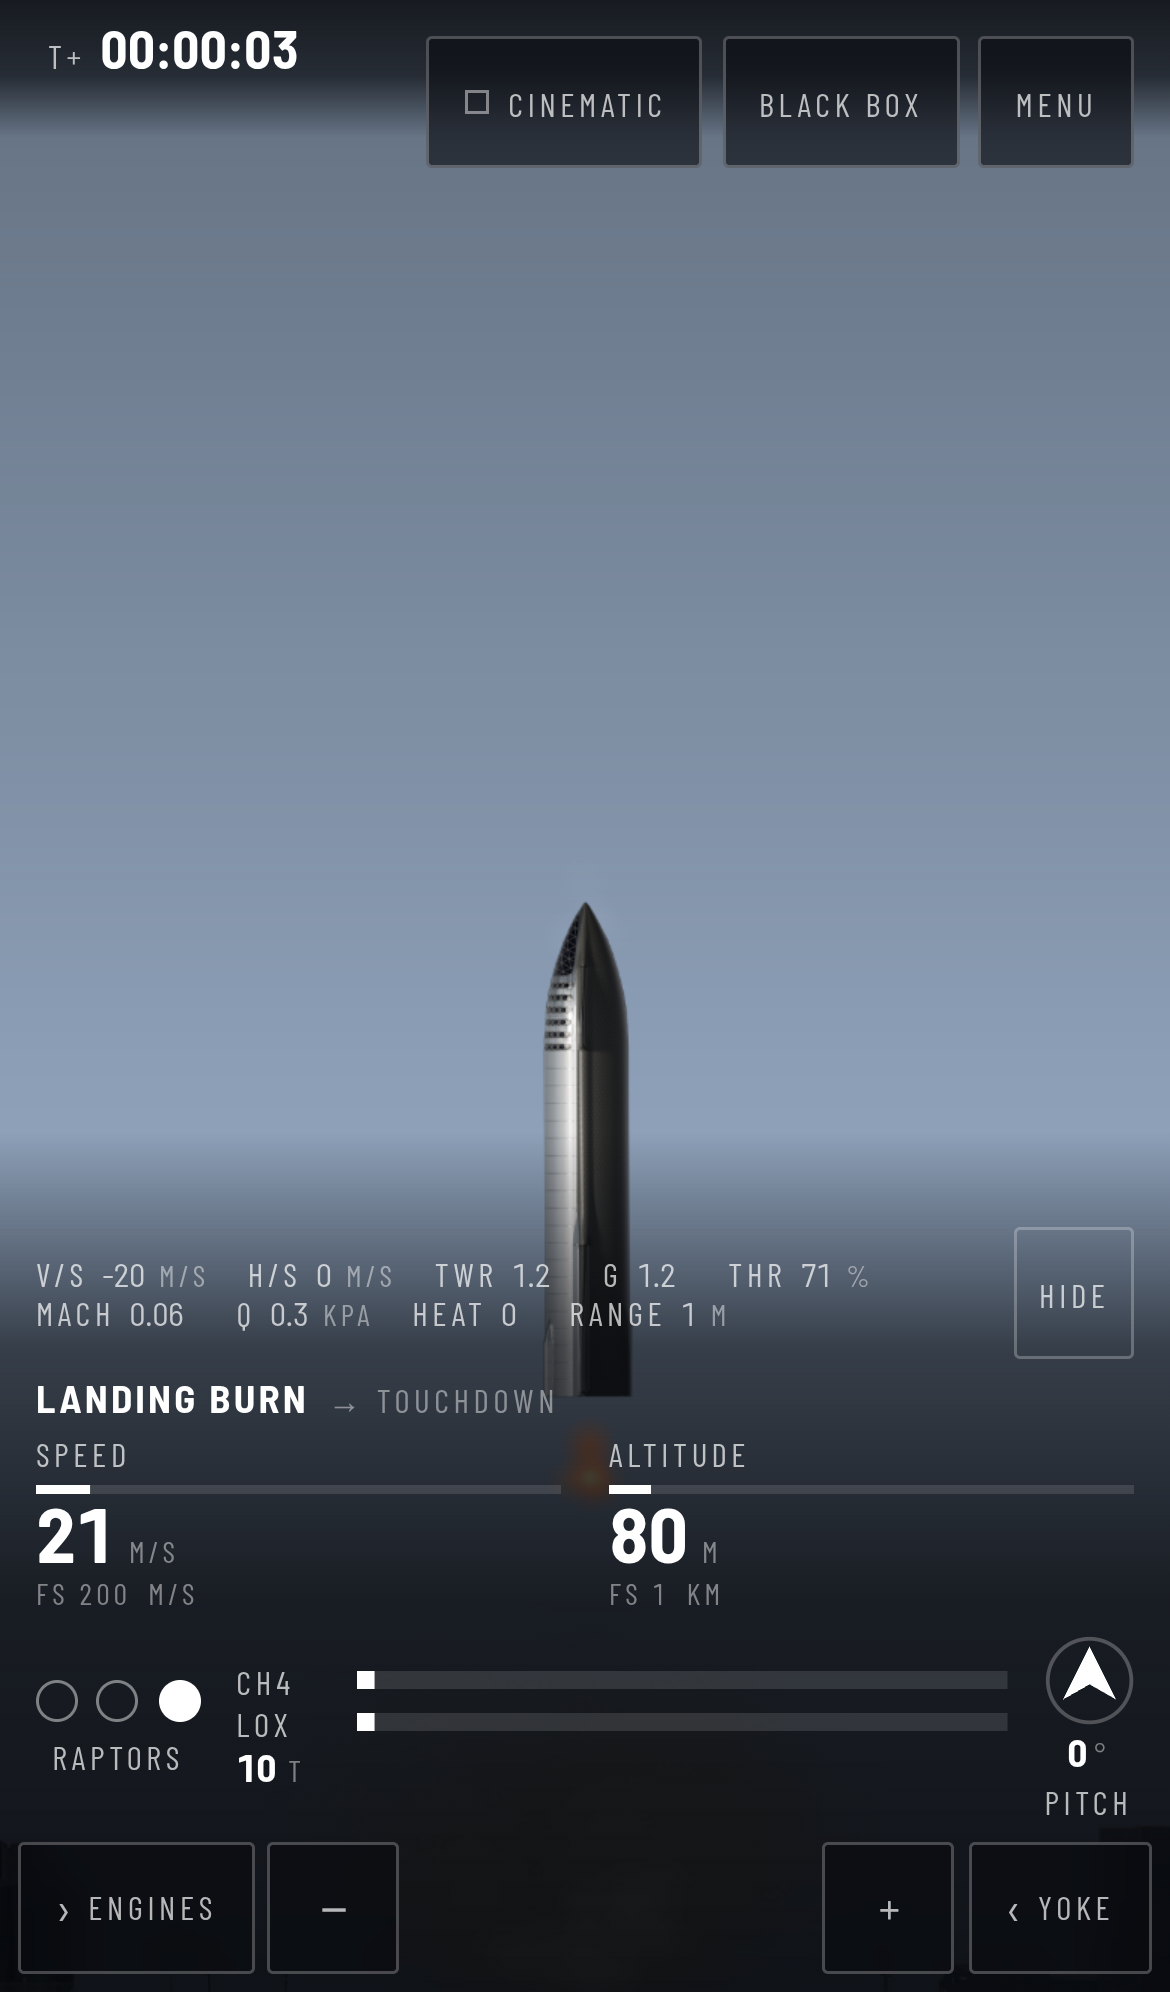
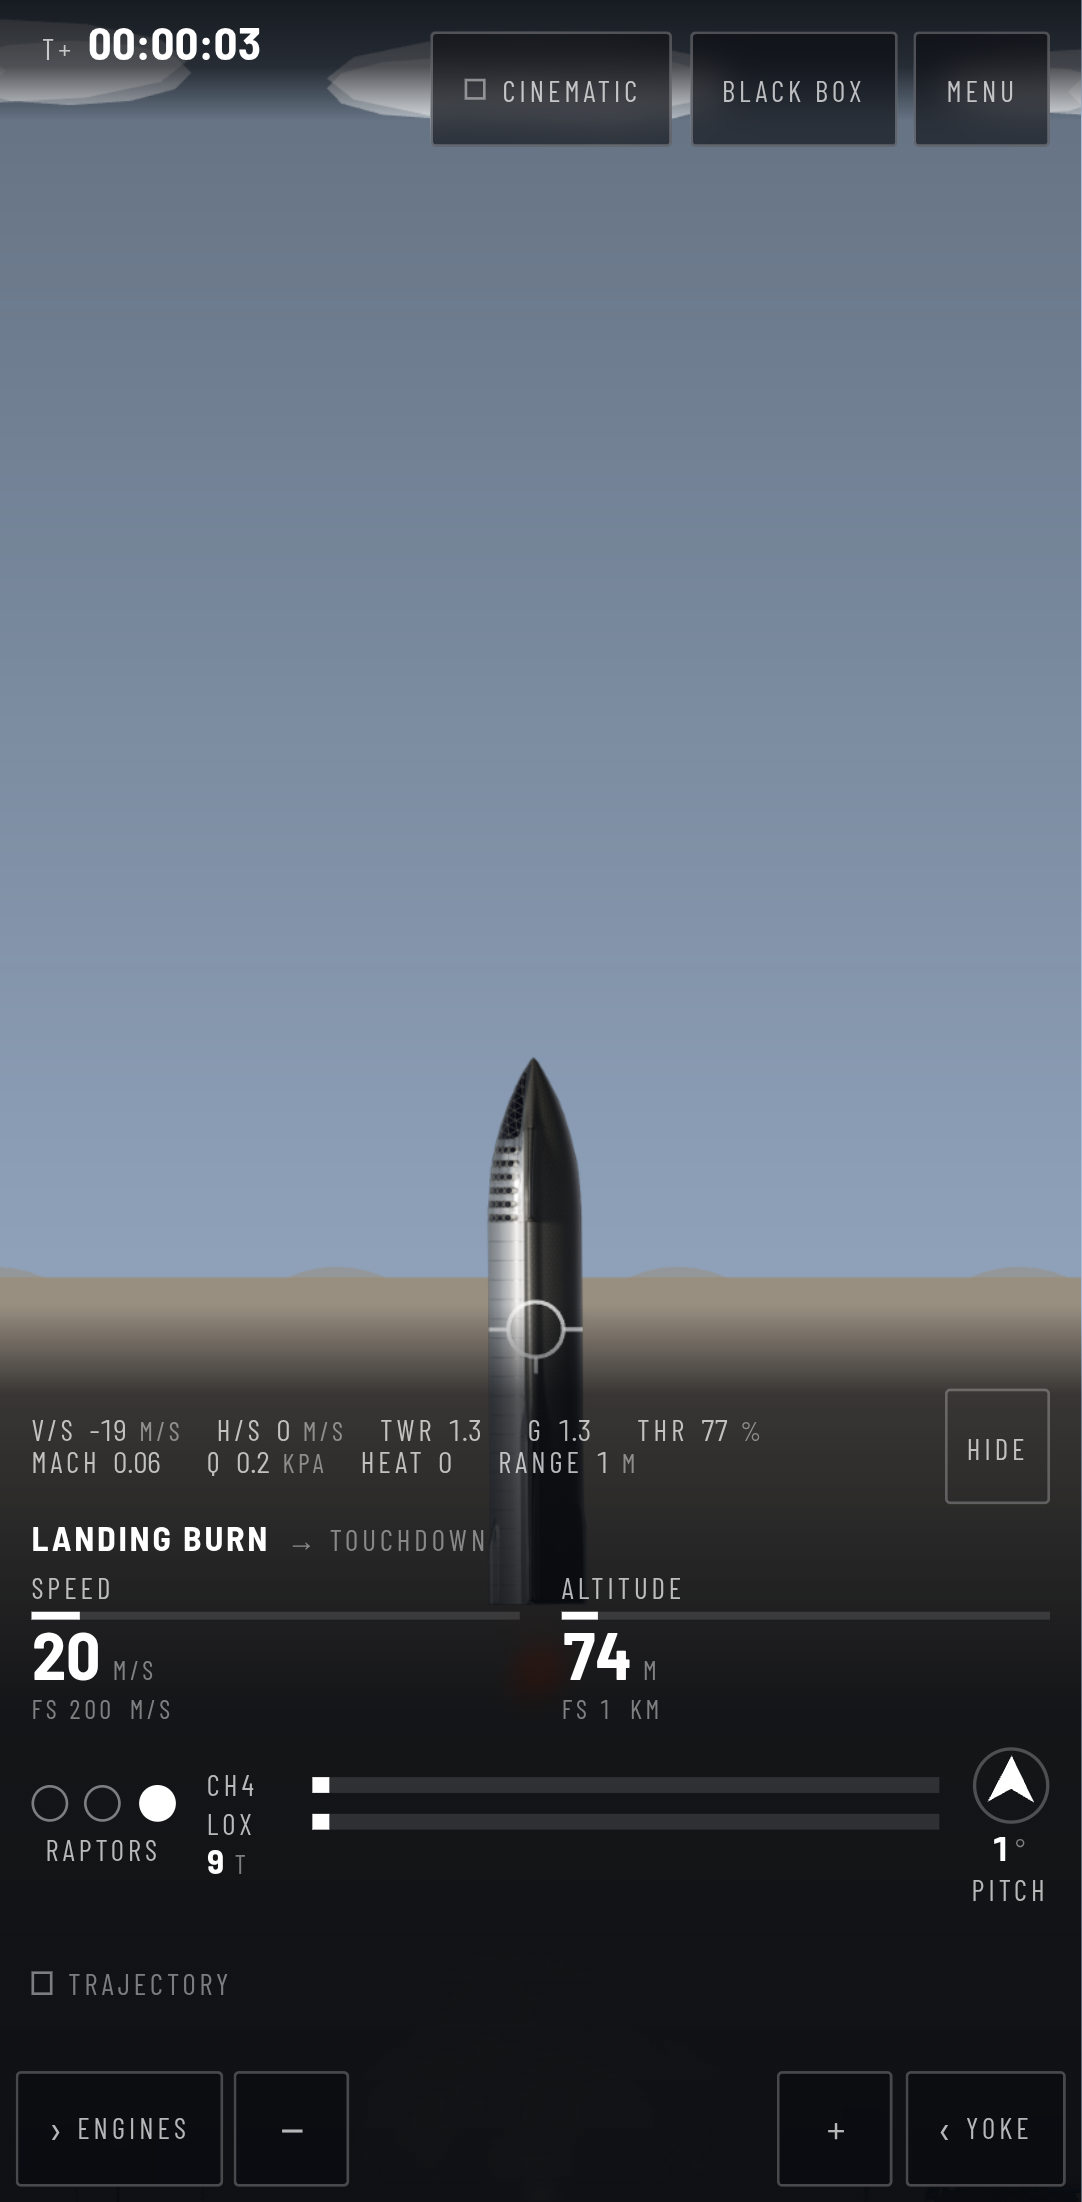
M7.7: perf, budget, mobile, ship
The gate for the whole milestone, with numbers rather than the word "green".

  lint, 1347 unit tests, build           all exit 0
  playwright                             266 passed, all five projects
    chromium 94 · pixel-portrait 45 · pixel-landscape 41
    iphone-portrait 45 · iphone-landscape 41
  first-load JS                          193.9 kB of 250 kB gzip
  fonts                                  32.7 kB of 80 kB raw
  service worker                         35 assets precached
  git diff v2/src/core vs M7 start       empty
  seven golden digests                   byte-identical to M2.14

THE BINDER BENCHMARK NOW INCLUDES THE MAP, which is the whole point of it. That
test measures the entire frame rather than one binder precisely because a
per-binder benchmark keeps saying green while the real cost grows — and M7.1
added a canvas repaint to the same tick. Leaving it out would have reintroduced
the blind spot one milestone after it was closed. It is offered at the rate
App.svelte offers it, so what is measured is the real amortised cost:

    whole-HUD frame 0.0076 ms of a 2 ms budget,
    with the map redrawing 577 times over a 1500-point trail

Zero-allocation coverage extended to both new callers. The map has its own
heap-growth test; the streaks join the pooled-effects loop, because they are the
first effect with a `stretch` and therefore the first to touch
`sprite.rotation` — a recycled sprite that kept an angle would hand it to
[…]

diff --git a/v2/tests/hud/binder.test.ts b/v2/tests/hud/binder.test.ts
@@ -33,6 +33,7 @@ import { READOUTS } from '$hud/readouts';
 import { METRICS } from '$hud/metrics';
 import { INDICATORS } from '$hud/indicators';
 import { createTimeline, trackFor } from '$hud/timeline';
+import { createMapRenderer, type MapContext } from '$hud/trajectory-draw';
 import { createTimelineBinder } from '$hud/timeline-binder';
 import { createInitialState, type SimState } from '$core/state';
 import { createScenarioState, getScenario, PRESETS } from '$core/scenarios';
@@ -277,12 +278,36 @@ describe('the 2 ms budget', () => {
     let state: SimState = createScenarioState(getScenario('reentry')!);
     cmd.toggleAutoLand(state);
 
+    /*
+      M7.7: the map is IN this benchmark, not beside it.
+
+      The whole reason this test measures the frame rather than one binder is
+      the note above — a per-binder benchmark keeps saying green while the real
+      cost grows. M7.1 added a canvas repaint to the same tick, and leaving it
+      out would have reintroduced exactly that blind spot one milestone after
+      it was closed.
+
+      It is offered at 10 Hz through `update`, which is what App.svelte does, so
+      what is measured is the real amortised cost: nine frames of one throttle
+      check and a tenth that repaints.
+    */
+    const mapContext = recordingMapContext(280, 104);
+    const trail = { downRange: [] as number[], altitude: [] as number[] };
+    const map = createMapRenderer({ context: mapContext, trail });
+
     const tick = (s: SimState) => {
       timeline.observe(s);
       text.binder.update(s);
       metrics.update(s);
       timelineBinder.update();
       indicators.update(s);
+      map.update(s, 1 / 120);
+      // The trail grows as the recorder feeds it, so the decimation is
+      // measured over a real length rather than an empty array.
+      if (trail.downRange.length < 20_000 && s.world.updatedFrameCount % 5 === 0) {
+        trail.downRange.push(s.kinematics.downRangeDistance);
+        trail.altitude.push(s.kinematics.altitude);
+      }
     };
 
     for (let i = 0; i < 500; i++) {
@@ -304,7 +329,13 @@ describe('the 2 ms budget', () => {
     samples.sort((a, b) => a - b);
     const perFrame = samples[Math.floor(samples.length / 2)]!;
 
-    expect(perFrame, `whole-HUD frame cost ${perFrame.toFixed(4)} ms`).toBeLessThan(2);
+    const report =
+      `whole-HUD frame cost ${perFrame.toFixed(4)} ms of a 2 ms budget, ` +
+      `map redrew ${map.drawCount} times over ${trail.downRange.length} trail points`;
+    console.log(report);
+    expect(perFrame, report).toBeLessThan(2);
+    // And the map was genuinely in the loop, or this measured the old frame.
+    expect(map.drawCount).toBeGreaterThan(10);
   });
 });
 
@@ -330,3 +361,31 @@ describe('the source itself', () => {
     expect(offenders).toEqual([]);
   });
 });
+
+/**
+ * A recording 2D context for the benchmark above.
+ *
+ * Deliberately does the cheapest possible thing per call: the point of putting
+ * the map in the frame benchmark is to measure the MAP's arithmetic — the
+ * decimation, the extent, the projection of three hundred points — not
+ * Chromium's rasteriser, which is not running in Node anyway.
+ */
+function recordingMapContext(width: number, height: number): MapContext {
+  return {
+    canvas: { width, height },
+    strokeStyle: '',
+    fillStyle: '',
+    lineWidth: 0,
+    font: '',
+    globalAlpha: 1,
+    clearRect: () => {},
+    beginPath: () => {},
+    moveTo: () => {},
+    lineTo: () => {},
+    arc: () => {},
+    stroke: () => {},
+    fill: () => {},
+    fillText: () => {},
+    setLineDash: () => {},
+  };
+}

diff --git a/v2/tests/view/perf.test.ts b/v2/tests/view/perf.test.ts
@@ -114,7 +114,7 @@ describe('the per-frame path does not grow', () => {
     }
   });
 
-  it('the M6.7 effects do not grow it either', () => {
+  it('the M6.7 and M7.5 effects do not grow it either', () => {
     /*
       The same invariant, run over what M6.7 added: a plume whose spread and
       size vary per frame, and a plasma trail. Both are new CALL SHAPES rather
@@ -143,6 +143,23 @@ describe('the per-frame path does not grow', () => {
         plumeSpreadFactor(pressure),
       );
       particles.emit('plasmaTrail', 0, 0, Math.PI, 0.8, DT, 1);
+      /*
+        M7.5's streaks, in the same loop and for the same reason. They are the
+        first effect with a `stretch`, which means the first that touches
+        `sprite.rotation` — and a recycled sprite that kept a rotation would
+        hand it to whatever plume particle claimed the slot next. Emitted at a
+        varying intensity so the rate-debt path is exercised rather than the
+        steady state.
+      */
+      particles.emit(
+        'velocityStreak',
+        0,
+        0,
+        0,
+        0.5 + 0.5 * Math.sin(frame * 0.013),
+        DT,
+        1,
+      );
       particles.update(DT);
       expect(particles.container.children.length).toBe(children);
     }

diff --git a/docs/ROADMAP-TASKS.md b/docs/ROADMAP-TASKS.md
@@ -363,7 +363,7 @@ numbers — plan § 5.*
   A deck at a few kilometres, seeded so it returns identically every run, thinning above it. Like
   M7.4, built against the settled FOV. Accept: deterministic across runs; per-frame allocation
   unchanged; correct above and below.
-- [ ] **M7.7 Perf, budget, mobile, ship** — binder re-benchmark under 2 ms with the map redraw
+- [x] **M7.7 Perf, budget, mobile, ship** — binder re-benchmark under 2 ms with the map redraw
   included; bundle report in the commit (JS <= 250 kB gzip, fonts <= 80 kB); the map's phone story
   proved by the mobile projects (it starts collapsed there — the lower third has no spare room);
   offline precache still complete; screenshots refreshed and the README updated. Accept: full gate
@@ -1689,3 +1689,25 @@ out is the point of the whole milestone.*
   altitude rather than against a number copied out of it, so moving the horizon later cannot silently
   put the sky underneath it. Thins to nothing by 30 km — above the troposphere there is no weather,
   and by then M7.4 is already drawing the earth.
+- 2026-08-25 · M7.7 · **Depth and Speed ships.** The gate, with the numbers rather than the word
+  "green": lint, 1347 unit tests and build all exit 0; **playwright 266 passed across all five
+  projects** (chromium 94, pixel-portrait 45, pixel-landscape 41, iphone-portrait 45,
+  iphone-landscape 41); first-load JS **193.9 kB of 250**, fonts 32.7 kB of 80, service worker
+  precaching 35 assets; `git diff v2/src/core` against the M7 start commit prints nothing and all
+  seven golden digests are byte-identical to their M2.14 values.
+  **The binder benchmark now includes the map**, which is the point of it: that test measures the
+  whole frame rather than one binder precisely because a per-binder benchmark keeps saying green
+  while the real cost grows, and M7.1 added a canvas repaint to the same tick. Leaving it out would
+  have reintroduced the blind spot one milestone after it was closed. Measured **0.0076 ms of a 2 ms
+  budget**, with the map redrawing 577 times over a 1500-point trail. Zero-allocation coverage
+  extended to both new callers — the map's redraw, and the streaks, which are the first effect to
+  touch `sprite.rotation` and so the first that could hand a stale angle to a recycled particle.
+  Particle pool: **peak 653 of 4000, 84% free**, against the 576 baseline.
+  Screenshots refreshed at 1 km, 20 km and 100 km plus desktop and phone, and the README updated —
+  including its results table, which had been claiming 189 kB and 194 e2e tests.
+  **The milestone in one line:** the viewport was 356 × 200 m at every altitude and is now 200 m to
+  1 km; the parallax was 1× and 0.001× with nothing between and is now three layers; the ground left
+  the screen at 100 m and now never does; and the two predictors core has carried since M2.9 are
+  finally on screen. Compression is allowed in the depiction and never in the numbers — every value
+  on the trajectory map is read from SimState or computed by core at true scale, and `core/` did not
+  change by one byte.

diff --git a/README.md b/README.md
@@ -3,7 +3,7 @@
 A Starship flight simulator that runs in a browser. Land it yourself, or watch the
 autopilot do it.
 
-![Starship on final approach, one Raptor lit, StarBase behind](docs/screenshot.png)
+![Starship on final approach, one Raptor lit, StarBase behind, a cloud deck overhead and the trajectory map showing the descent](docs/screenshot.png)
 
 Originally written in 2021 as a first project. This is v2: the same flight model,
 extracted and rebuilt around it.
@@ -17,9 +17,16 @@ controls become bottom sheets with real touch targets.
 ### It looks like altitude
 
 The camera opens up as you climb — 200 m of world at the pad, a kilometre by
-20 km — and a compressed-perspective ground layer keeps the earth on screen the
-whole way instead of losing it at a hundred metres. A trajectory map in the
-corner draws the profile you have flown and the touchdown you are heading for.
+20 km — and three layers move at three rates beneath it: the ground at true
+scale, a cloud deck at 2.5 km, and a compressed-perspective earth that keeps the
+world on screen the whole way instead of losing it at a hundred metres. Above
+the air, velocity streaks carry the speed the world no longer can.
+
+A trajectory map in the corner draws the profile you have flown and the
+touchdown you are heading for — or says `NO SOLUTION — ORBIT` when there isn't
+one. The ring on the ship is the flight-path marker: where the vehicle is
+actually going, as against where its nose points. On a re-entry those differ by
+ninety degrees.
 
 <p>
 <img src="docs/depth-1km.png" alt="One kilometre up: the ship large in frame, terrain below" width="270">
@@ -107,10 +114,11 @@ different vehicle, and nobody would have been able to say which parts changed.
 | Globals | 355 | 0 (lint-enforced) |
 | Simulation step | frame-rate dependent | fixed 120 Hz, ~4–7 µs |
 | HUD | 12 Hz, 18 `getElementById` per update | 120 Hz, zero lookups, diffed writes |
-| First-load JS | ~3.5 MB, two CDNs | 189 kB gzip, no third-party origins |
+| First-load JS | ~3.5 MB, two CDNs | 194 kB gzip, no third-party origins |
 | Offline | claimed | tested — a full flight with the network off |
 | Interface | one desktop layout | three breakpoints, gated on four phone viewports |
-| Tests | 0 | 1200+ unit, 194 end-to-end across five browser projects |
+| Depth | ground, then nothing above 100 m | three parallax layers, camera FOV 1x–5x with altitude |
+| Tests | 0 | 1347 unit, 266 end-to-end across five browser projects |
 
 ---
 
